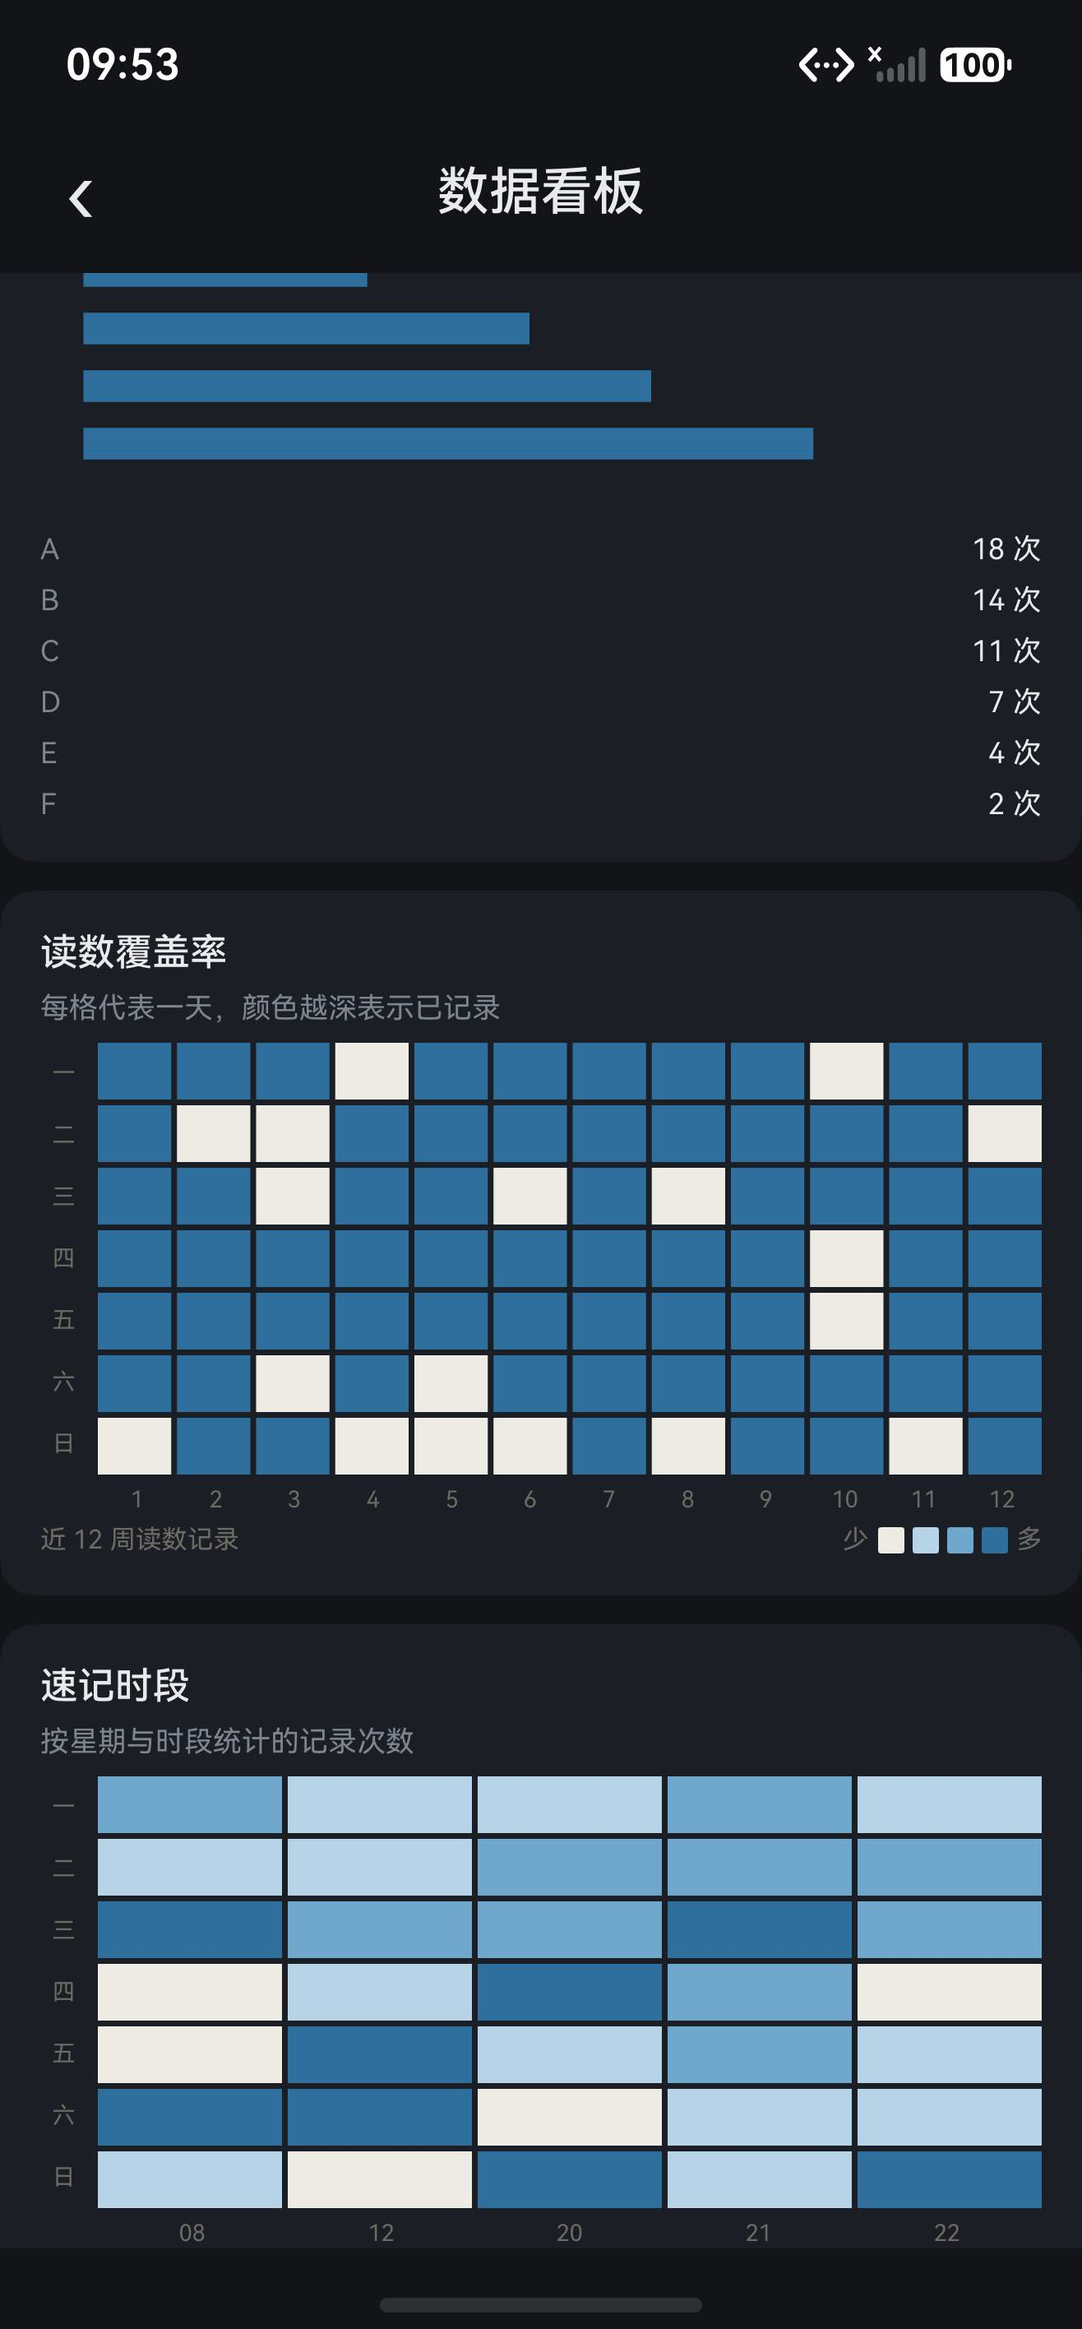
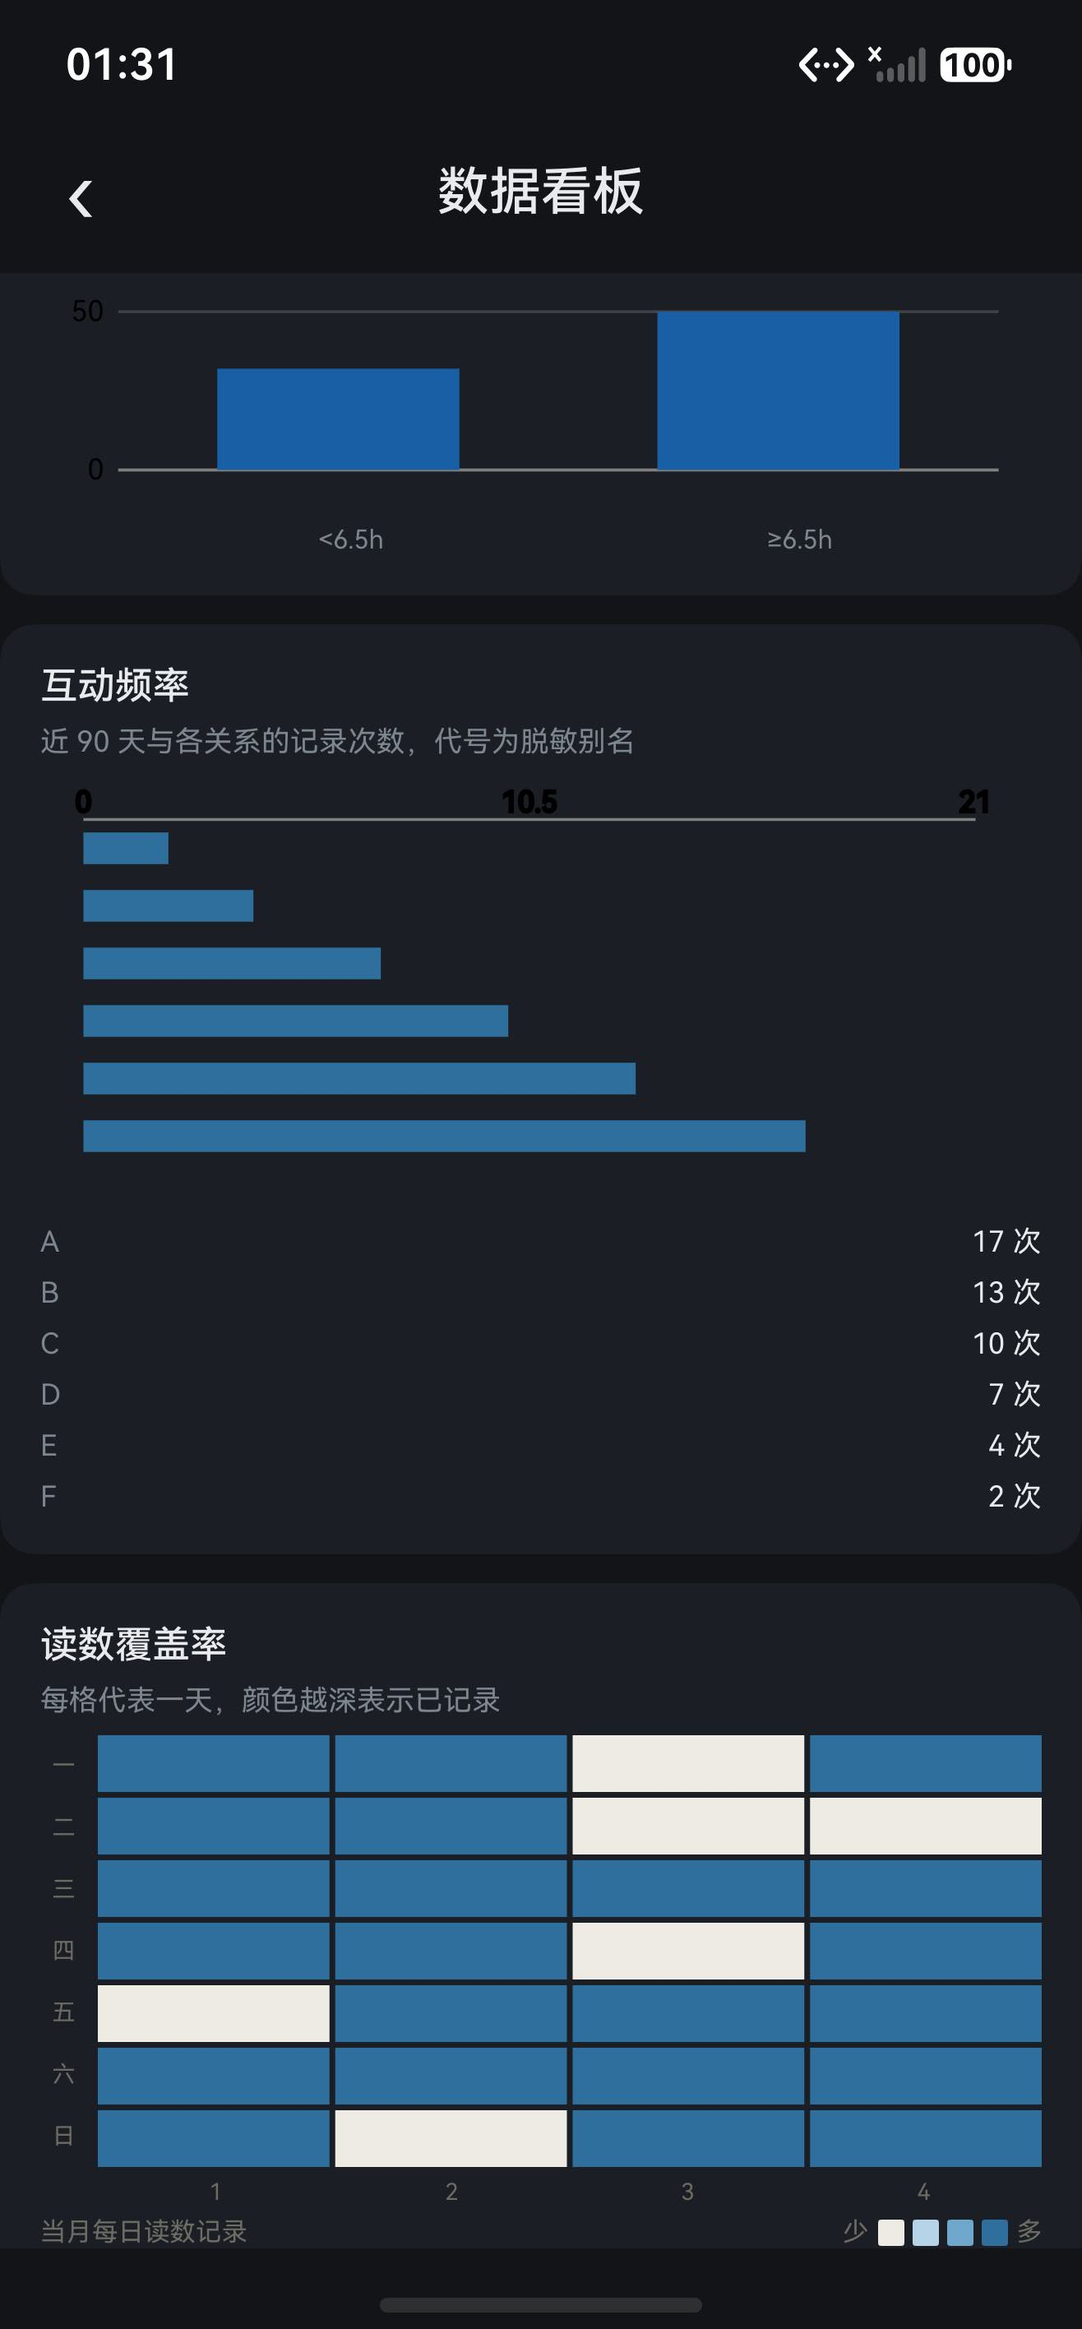
docs(readme): show the single-month analytics view
README 仍写 6/12 月切换与两份 JSON，截图也是旧按钮。
改为单月 chip 口径，换当前月、中部、热力图三张截图，删除不再引用的旧图。

diff --git a/README.md b/README.md
@@ -37,7 +37,7 @@ The current build covers notes, predictions and settlement, review and the agent
 |---|---|
 | Frozen prediction log | Target, judgment, confidence 0-100, reason, and a settlement date written once; settlement fills the outcome and marks hit or miss. |
 | Hit-rate statistics | Overall rate, a monthly trend over the last six months, and a hit/miss donut, drawn with `@ohos/mpchart`. |
-| Analytics dashboard | Ten charts over a remote JSON payload: calibration curve, monthly hit rate, outcome split, confidence distribution, horizon buckets, sleep trend, sleep-vs-hit rate, interaction counts, coverage heatmap, and activity heatmap. The 6/12-month switch refetches the payload. The dashboard renders the remote example payload and does not read local records. |
+| Analytics dashboard | Ten charts over a remote JSON payload: calibration curve, monthly hit rate, outcome split, confidence distribution, horizon buckets, sleep trend, sleep-vs-hit rate, interaction counts, coverage heatmap, and activity heatmap. A month picker selects one of the twelve months; every chart reads that month's detail. The dashboard renders the remote example payload and does not read local records. |
 | Preview fallback | In the DevEco Previewer, where `relationalStore` is unavailable, the home page falls back to the in-memory preview store and marks the counters as demo data. |
 | Four-step review | Facts, interpretation, contradiction, action. The contradiction step can quote up to three anchors. |
 | Three-tier trust | Each relation carries a friendly, sincere, or transparent tier and renders as a star graph centred on you. |
@@ -111,11 +111,11 @@ Expected result: after two or three settled predictions the statistics page draw
 ### Open the analytics dashboard
 
 1. On the home page, tap `数据看板` under the four counters.
-2. The page requests `stats-6m.json` from `docs/mock/` in the public repository and draws ten charts: monthly hit rate, calibration curve, outcome split, confidence distribution, horizon buckets, sleep trend, sleep-vs-hit rate, interaction counts, coverage heatmap, and activity heatmap. It does not read local records.
-3. Tap `12 月` to request `stats-12m.json`; tap `刷新` to request the current range again.
+2. The page requests `stats-12m.json` from `docs/mock/` in the public repository and draws ten charts: monthly hit rate, calibration curve, outcome split, confidence distribution, horizon buckets, sleep trend, sleep-vs-hit rate, interaction counts, coverage heatmap, and activity heatmap. It does not read local records.
+3. Pick a month chip; the header and every chart switch to that month's detail. Tap `刷新` to request the payload again.
 4. If both the Gitee and GitHub requests fail, the page keeps the error message and a retry action.
 
-Expected result: the header states the remote data timestamp. The calibration line sits against a 45-degree reference, the 12-month switch adds six earlier months, and the two heatmaps label weekdays and columns.
+Expected result: the header states the remote data timestamp and the selected month. The calibration line sits against a 45-degree reference; choosing another month changes calibration, outcomes, readings and both heatmaps; the two heatmaps label weekdays and columns.
 
 ### Run one review
 
@@ -142,11 +142,11 @@ Settings (`设置`) writes the whole record set to `cogit-export-YYYYMMDD-HHMM.m
 
 Screenshots come from a Mate 70 Pro emulator. Every record in them is synthetic. The new home and dashboard captures use the current build in dark mode; the feature table below was captured earlier in light mode. Those feature pages keep their layout, while the home page now adds the identity band and the `数据看板` link.
 
-| Home | Analytics, 6 months |
+| Home | Analytics, current month |
 |---|---|
-| <img src="./docs/images/debug/home.jpeg" width="300" alt="Current home page with the identity band, four counters, a dashboard button, today's readings and the module grid"> | <img src="./docs/images/debug/analytics-6m.jpeg" width="300" alt="Analytics dashboard in dark mode showing the remote data timestamp, the six-month hit-rate line, the calibration curve and the outcome donut"> |
-| **Analytics, 12 months** | **Analytics, heatmaps** |
-| <img src="./docs/images/debug/analytics-12m.jpeg" width="300" alt="Analytics dashboard after switching to twelve months, with more monthly points on the hit-rate line"> | <img src="./docs/images/debug/analytics-bottom.jpeg" width="300" alt="Lower part of the analytics dashboard with sleep buckets, interaction bars, a coverage heatmap and an activity heatmap, both labelled by weekday"> |
+| <img src="./docs/images/debug/home.jpeg" width="300" alt="Current home page with the identity band, four counters, a dashboard button, today's readings and the module grid"> | <img src="./docs/images/debug/analytics-month.jpeg" width="300" alt="Analytics dashboard in dark mode with month chips, the current month highlighted, the hit-rate line, the calibration curve and the outcome donut"> |
+| **Analytics, mid-page** | **Analytics, heatmaps** |
+| <img src="./docs/images/debug/analytics-mid.jpeg" width="300" alt="Middle of the analytics dashboard with the outcome donut, confidence bars and horizon buckets for the selected month"> | <img src="./docs/images/debug/analytics-bottom.jpeg" width="300" alt="Lower part of the analytics dashboard with interaction bars, a coverage heatmap and weekday labels"> |
 
 The older feature captures follow; their page content still matches the current build apart from the identity band noted above.
 
@@ -194,7 +194,7 @@ node "<DevEco Studio>/tools/hvigor/bin/hvigorw.js" assembleHap --mode module -p 
 3. Select the `entry` module and run.
 4. On the dashboard, open notes (`速记`), write one line, and save.
 5. The note appears under recent notes, and the dashboard counters move off zero.
-6. Tap `数据看板`, then `12 月`, to confirm the remote payload loads and the range switch redraws the charts.
+6. Tap `数据看板`, then pick a month chip, to confirm the remote payload loads and the charts switch to that month.
 
 Expected result: the dashboard reports one note today and one in total, the weekly settlement card starts counting it, and the analytics page shows a remote timestamp with ten charts.
 
@@ -224,15 +224,14 @@ The dashboard reads static JSON from `docs/mock/` in the public repository. No k
 
 | File | Content |
 |---|---|
-| `stats-6m.json` | Six months of monthly hit rates, calibration buckets, outcome totals, confidence buckets, horizon buckets, 84 days of coverage and the readings recorded in them, sleep buckets, interaction counts, and activity cells |
-| `stats-12m.json` | The same shape with twelve months of monthly points |
+| `stats-12m.json` | Twelve months of monthly points, plus one detail block per month: calibration, outcomes, confidence, horizon, readings, coverage, sleep buckets, interactions, and activity cells |
 
 Base URLs:
 
 - Gitee: `https://gitee.com/theangelnextdoor/cogit-lucid-workbench/raw/main/docs/mock/`
 - GitHub: `https://raw.githubusercontent.com/SunshineMahiru/cogit-lucid-workbench/main/docs/mock/`
 
-`RemoteStatsRepository` requests the range file from Gitee first and GitHub second, adding a cache-busting `t` parameter. If both fail, the page shows the error and a retry action. Switching 6/12 months issues a new request.
+`RemoteStatsRepository` requests `stats-12m.json` from Gitee first and GitHub second, adding a cache-busting `t` parameter. If both fail, the page shows the error and a retry action. Switching months filters the monthly detail already loaded; it does not issue a new request.
 
 ### Pointing the app at the server
 
@@ -337,7 +336,7 @@ cogit-lucid-workbench/
 
 `hvigorw test` runs the local Hypium unit tests in `entry/src/test`.
 
-The device suite in `entry/src/ohosTest` has seven cases: four analysis rules in `Analysis.test.ets` and three analytics flow cases in `UiFlow.test.ets`. The flow covers opening the dashboard from the home page, switching to 12 months, and returning to the home page. Install both HAPs on the emulator, then run:
+The device suite in `entry/src/ohosTest` has seven cases: four analysis rules in `Analysis.test.ets` and three analytics flow cases in `UiFlow.test.ets`. The flow covers opening the dashboard from the home page, switching month, and returning to the home page. Install both HAPs on the emulator, then run:
 
 ```bash
 node "<DevEco Studio>/tools/hvigor/bin/hvigorw.js" assembleHap --mode module -p module=entry@ohosTest -p product=default --no-daemon
@@ -362,7 +361,7 @@ Expected result: `Tests run: 7, Failure: 0, Error: 0, Pass: 7`.
 The DevEco previewer does not provide `relationalStore`. When the store cannot be opened, the home page reads the in-memory preview store and marks the counters as demo data; other data-backed pages use their own fallback. Run on an emulator or a phone to see real records.
 
 **The analytics dashboard shows example data.**
-The dashboard reads `docs/mock/stats-6m.json` or `stats-12m.json` from the public repository, trying Gitee first and GitHub second. The values are synthetic and labelled as example data in the header. Edit those files to change what the charts show.
+The dashboard reads `docs/mock/stats-12m.json` from the public repository, trying Gitee first and GitHub second. The values are synthetic and labelled as example data in the header. Each month has its own detail block; edit the file to change what the charts show.
 
 **The emulator cannot reach the mock server.**
 `127.0.0.1` inside the emulator is the emulator itself. Run `hdc rport tcp:4523 tcp:4523` before launching, or open settings and point the model base URL at the host address.

diff --git a/README.zh-CN.md b/README.zh-CN.md
@@ -37,7 +37,7 @@ cogit-lucid-workbench 是一个单模块 HarmonyOS 应用，设备上显示为 *
 |---|---|
 | 预测日志 | 目标、判断、0–100 置信度、理由、结算日一次写定；结算时补上结果并标记命中与否。 |
 | 命中率统计 | 整体命中率、最近六个月的逐月趋势、命中与未命中的环图，用 `@ohos/mpchart` 绘制。 |
-| 数据看板 | 十张图共用一份远端 JSON：校准曲线、月度命中率、结果分布、置信度分布、期限分档、读数趋势、睡眠分组命中率、互动频率、读数覆盖率与速记时段热力图；切换 6/12 月会重新请求。看板只渲染远端示例 JSON，不读取本地记录。 |
+| 数据看板 | 十张图共用一份远端 JSON：校准曲线、月度命中率、结果分布、置信度分布、期限分档、读数趋势、睡眠分组命中率、互动频率、读数覆盖率与速记时段热力图；月份 chip 选择 12 个月中的一个月，所有图读取该月明细。看板只渲染远端示例 JSON，不读取本地记录。 |
 | 预览回退 | DevEco 预览器不提供 `relationalStore`，首页改读内存预览数据，并标明摘要为演示数据。 |
 | 四步复盘 | 事实、解释、矛盾、行动；矛盾这一步最多引用三条锚点。 |
 | 三层信任 | 每条关系带友好、真诚、透明之一的分层，以我为中心画成星图。 |
@@ -111,11 +111,11 @@ cogit-lucid-workbench 是一个单模块 HarmonyOS 应用，设备上显示为 *
 ### 打开数据看板
 
 1. 在首页四项摘要下方点 `数据看板`。
-2. 页面会请求公开仓 `docs/mock/` 下的 `stats-6m.json`，画出十张图：月度命中率、校准曲线、结果分布、置信度分布、期限分档、读数趋势、睡眠分组命中率、互动频率、读数覆盖率与速记时段热力图；看板不读取本地记录。
-3. 点 `12 月` 会请求 `stats-12m.json`；点 `刷新` 会重新请求当前区间。
+2. 页面会请求公开仓 `docs/mock/` 下的 `stats-12m.json`，画出十张图：月度命中率、校准曲线、结果分布、置信度分布、期限分档、读数趋势、睡眠分组命中率、互动频率、读数覆盖率与速记时段热力图；看板不读取本地记录。
+3. 点月份 chip 切换月份，页头与所有图都会读取该月明细；点 `刷新` 重新请求远端数据。
 4. Gitee 与 GitHub 都请求失败时，页面保留错误文案与重试入口。
 
-预期结果：页头显示远端数据时间；校准曲线沿 45 度参考线展开；切到 12 月会多出前六个月的数据；两张热力图带星期与列标签。
+预期结果：页头显示远端数据时间与当前月份；校准曲线沿 45 度参考线展开；切换月份后校准、结果、读数与两张热力图一起变化；热力图带星期与列标签。
 
 ### 做一次复盘
 
@@ -142,11 +142,11 @@ cogit-lucid-workbench 是一个单模块 HarmonyOS 应用，设备上显示为 *
 
 截图来自 Mate 70 Pro 模拟器，其中记录均为合成示例。新的首页与看板截图使用当前版本、深色模式；下方功能页表格拍摄较早，为浅色模式。这些页面的布局保持不变，首页新增了身份区与 `数据看板` 入口。
 
-| 首页 | 看板 · 6 月 |
+| 首页 | 看板 · 当前月 |
 |---|---|
-| <img src="./docs/images/debug/home.jpeg" width="300" alt="当前首页，含身份区、四项摘要、数据看板入口、当天读数与模块网格"> | <img src="./docs/images/debug/analytics-6m.jpeg" width="300" alt="深色模式下的数据看板，显示远端数据时间、六个月命中率折线、校准曲线与结果环图"> |
-| **看板 · 12 月** | **看板 · 热力图** |
-| <img src="./docs/images/debug/analytics-12m.jpeg" width="300" alt="切换到 12 月后的数据看板，命中率折线增加更多月份"> | <img src="./docs/images/debug/analytics-bottom.jpeg" width="300" alt="看板下半部分，含睡眠分组、互动频率横向条、读数覆盖率热力图与速记时段热力图，均带星期标签"> |
+| <img src="./docs/images/debug/home.jpeg" width="300" alt="当前首页，含身份区、四项摘要、数据看板入口、当天读数与模块网格"> | <img src="./docs/images/debug/analytics-month.jpeg" width="300" alt="深色模式下的单月看板，月份 chip 中当前月高亮，显示命中率折线、校准曲线与结果环图"> |
+| **看板 · 中部** | **看板 · 热力图** |
+| <img src="./docs/images/debug/analytics-mid.jpeg" width="300" alt="单月看板中部，显示结果环图、置信度柱状图与期限分档"> | <img src="./docs/images/debug/analytics-bottom.jpeg" width="300" alt="单月看板底部，显示互动频率横向条与读数覆盖率热力图，均带星期标签"> |
 
 下面是较早的功能页截图；除上文提到的身份区外，页面内容与当前版本一致。
 
@@ -194,7 +194,7 @@ node "<DevEco Studio>/tools/hvigor/bin/hvigorw.js" assembleHap --mode module -p 
 3. 选中 `entry` 模块，点运行。
 4. 在首页进入速记（`速记`），写一行，保存。
 5. 这条记录出现在最近速记里，首页的计数随之变化。
-6. 点 `数据看板`，再点 `12 月`，确认远端数据加载、区间切换后图表重绘。
+6. 点 `数据看板`，再点一个月份 chip，确认远端数据加载、切月后图表重绘。
 
 预期结果：首页显示今日速记 1 条、共 1 条，本周结算卡开始把它算进去；看板显示远端时间与十张图。
 
@@ -224,15 +224,14 @@ node mock-server/server.js
 
 | 文件 | 内容 |
 |---|---|
-| `stats-6m.json` | 最近 6 个月的逐月命中率、校准分档、结果合计、置信度分档、期限分档、84 天覆盖率与其中的读数、睡眠分组、互动次数与时段格子 |
-| `stats-12m.json` | 同样的结构，逐月数据扩到 12 个月 |
+| `stats-12m.json` | 12 个月的逐月数据，以及每个月一份明细：校准、结果、置信度、期限、读数、覆盖、睡眠分组、互动与时段格子 |
 
 基础地址：
 
 - Gitee：`https://gitee.com/theangelnextdoor/cogit-lucid-workbench/raw/main/docs/mock/`
 - GitHub：`https://raw.githubusercontent.com/SunshineMahiru/cogit-lucid-workbench/main/docs/mock/`
 
-`RemoteStatsRepository` 先请求 Gitee，再请求 GitHub，并带上用于跳过缓存的 `t` 参数。两边都失败时，页面显示错误与重试入口；切换 6/12 月会重新发起请求。
+`RemoteStatsRepository` 先请求 Gitee，再请求 GitHub，并带上用于跳过缓存的 `t` 参数。两边都失败时，页面显示错误与重试入口；切换月份只过滤已加载的月度明细，不会重新发起请求。
 
 ### 让应用连上服务
 
@@ -337,7 +336,7 @@ cogit-lucid-workbench/
 
 `hvigorw test` 运行 `entry/src/test` 下的本地 Hypium 单元测试。
 
-`entry/src/ohosTest` 的设备套件共 7 条：`Analysis.test.ets` 里 4 条分析规则，`UiFlow.test.ets` 里 3 条看板流程。流程覆盖从首页进入看板、切到 12 月、返回首页。把应用包与测试包装到模拟器后运行：
+`entry/src/ohosTest` 的设备套件共 7 条：`Analysis.test.ets` 里 4 条分析规则，`UiFlow.test.ets` 里 3 条看板流程。流程覆盖从首页进入看板、切换月份、返回首页。把应用包与测试包装到模拟器后运行：
 
 ```bash
 node "<DevEco Studio>/tools/hvigor/bin/hvigorw.js" assembleHap --mode module -p module=entry@ohosTest -p product=default --no-daemon
@@ -362,7 +361,7 @@ hdc shell aa test -b com.sunshinemahiru.cogitlucid -m entry_test -s unittest Ope
 DevEco 预览器不提供 `relationalStore`。数据库打不开时，首页改读内存预览数据，并在摘要下方标明演示数据；其他依赖数据的页面各有回退。要看真实记录请用模拟器或手机。
 
 **看板里的数据是示例数据。**
-看板读取公开仓 `docs/mock/` 下的 `stats-6m.json` 或 `stats-12m.json`，先请求 Gitee、再请求 GitHub；页头标明这是示例数据。修改这两份文件就能改变图表展示。
+看板读取公开仓 `docs/mock/` 下的 `stats-12m.json`，先请求 Gitee、再请求 GitHub；页头标明这是示例数据。每个月有独立明细，修改该文件就能改变图表展示。
 
 **模拟器连不上 Mock 服务。**
 模拟器里的 `127.0.0.1` 指向模拟器自己。启动前执行 `hdc rport tcp:4523 tcp:4523` 做端口转发，或者在设置里把接口地址改成宿主机地址。
